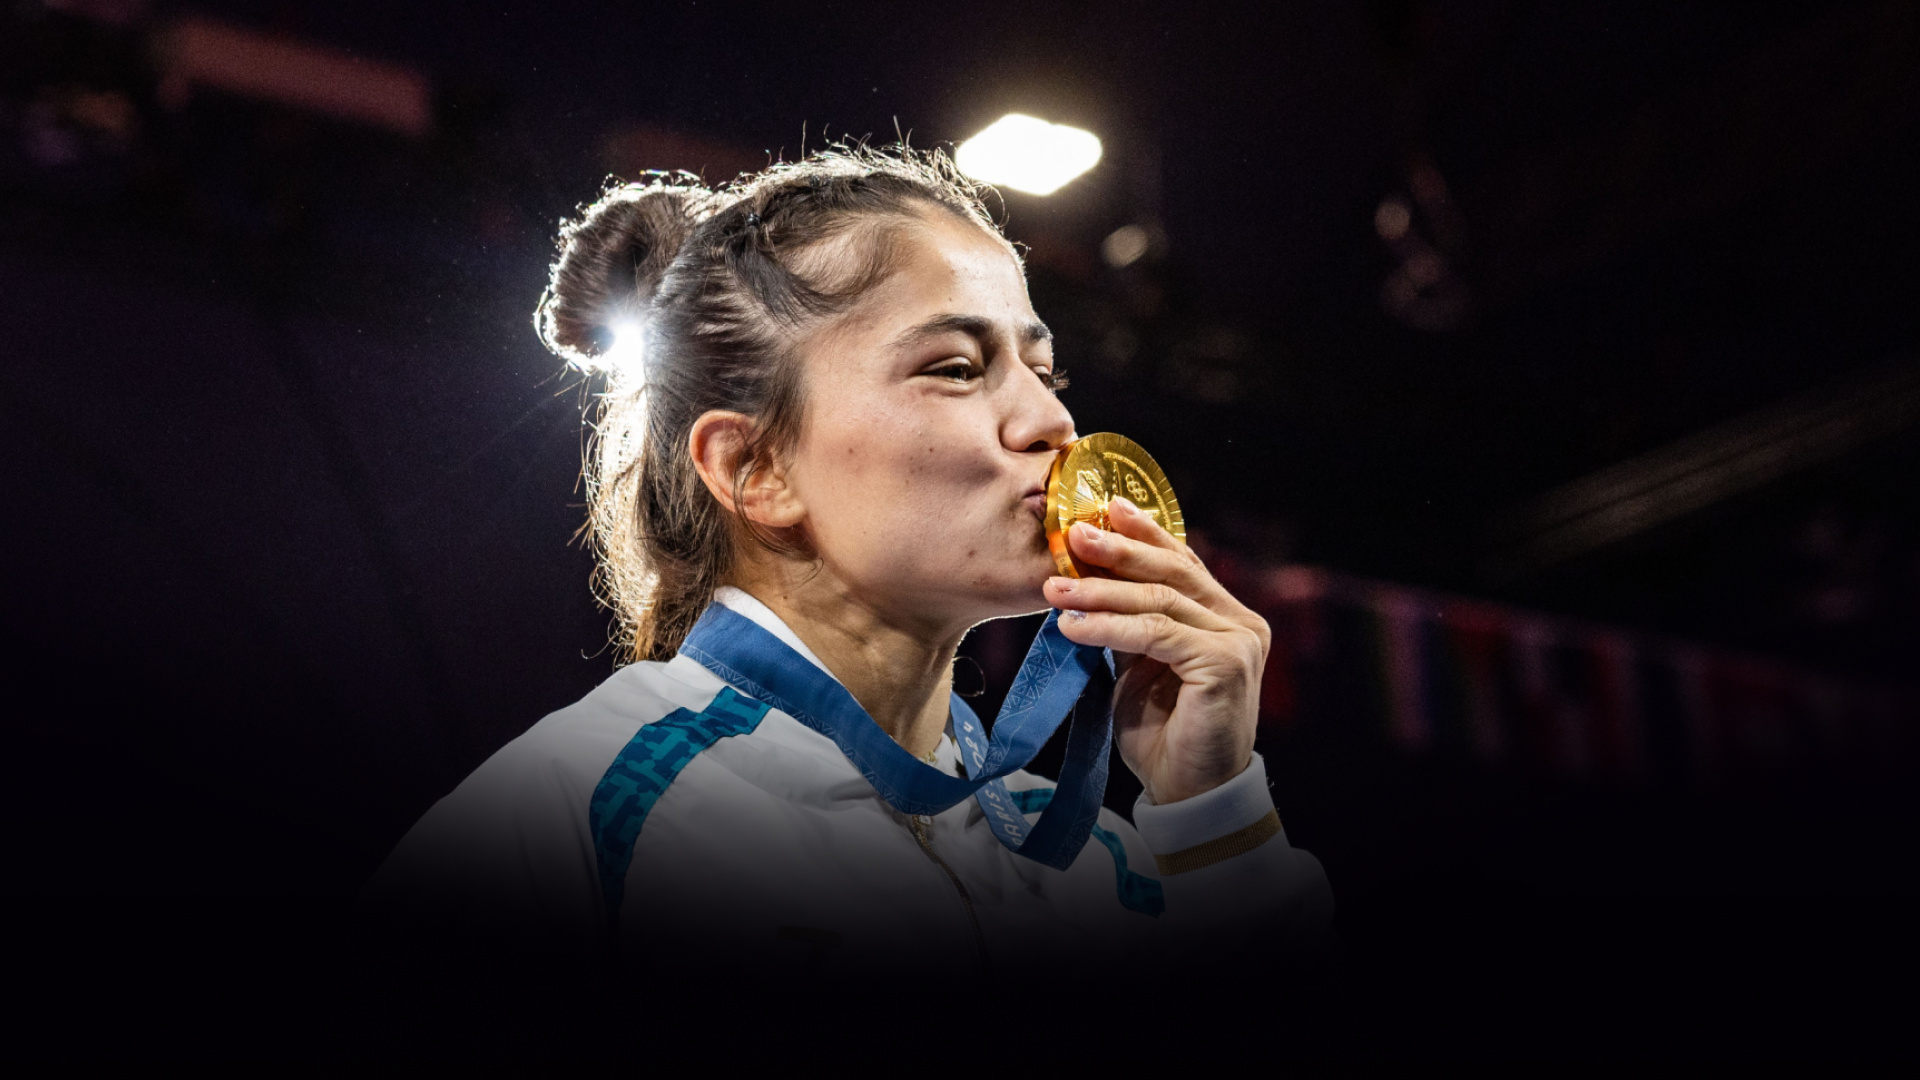
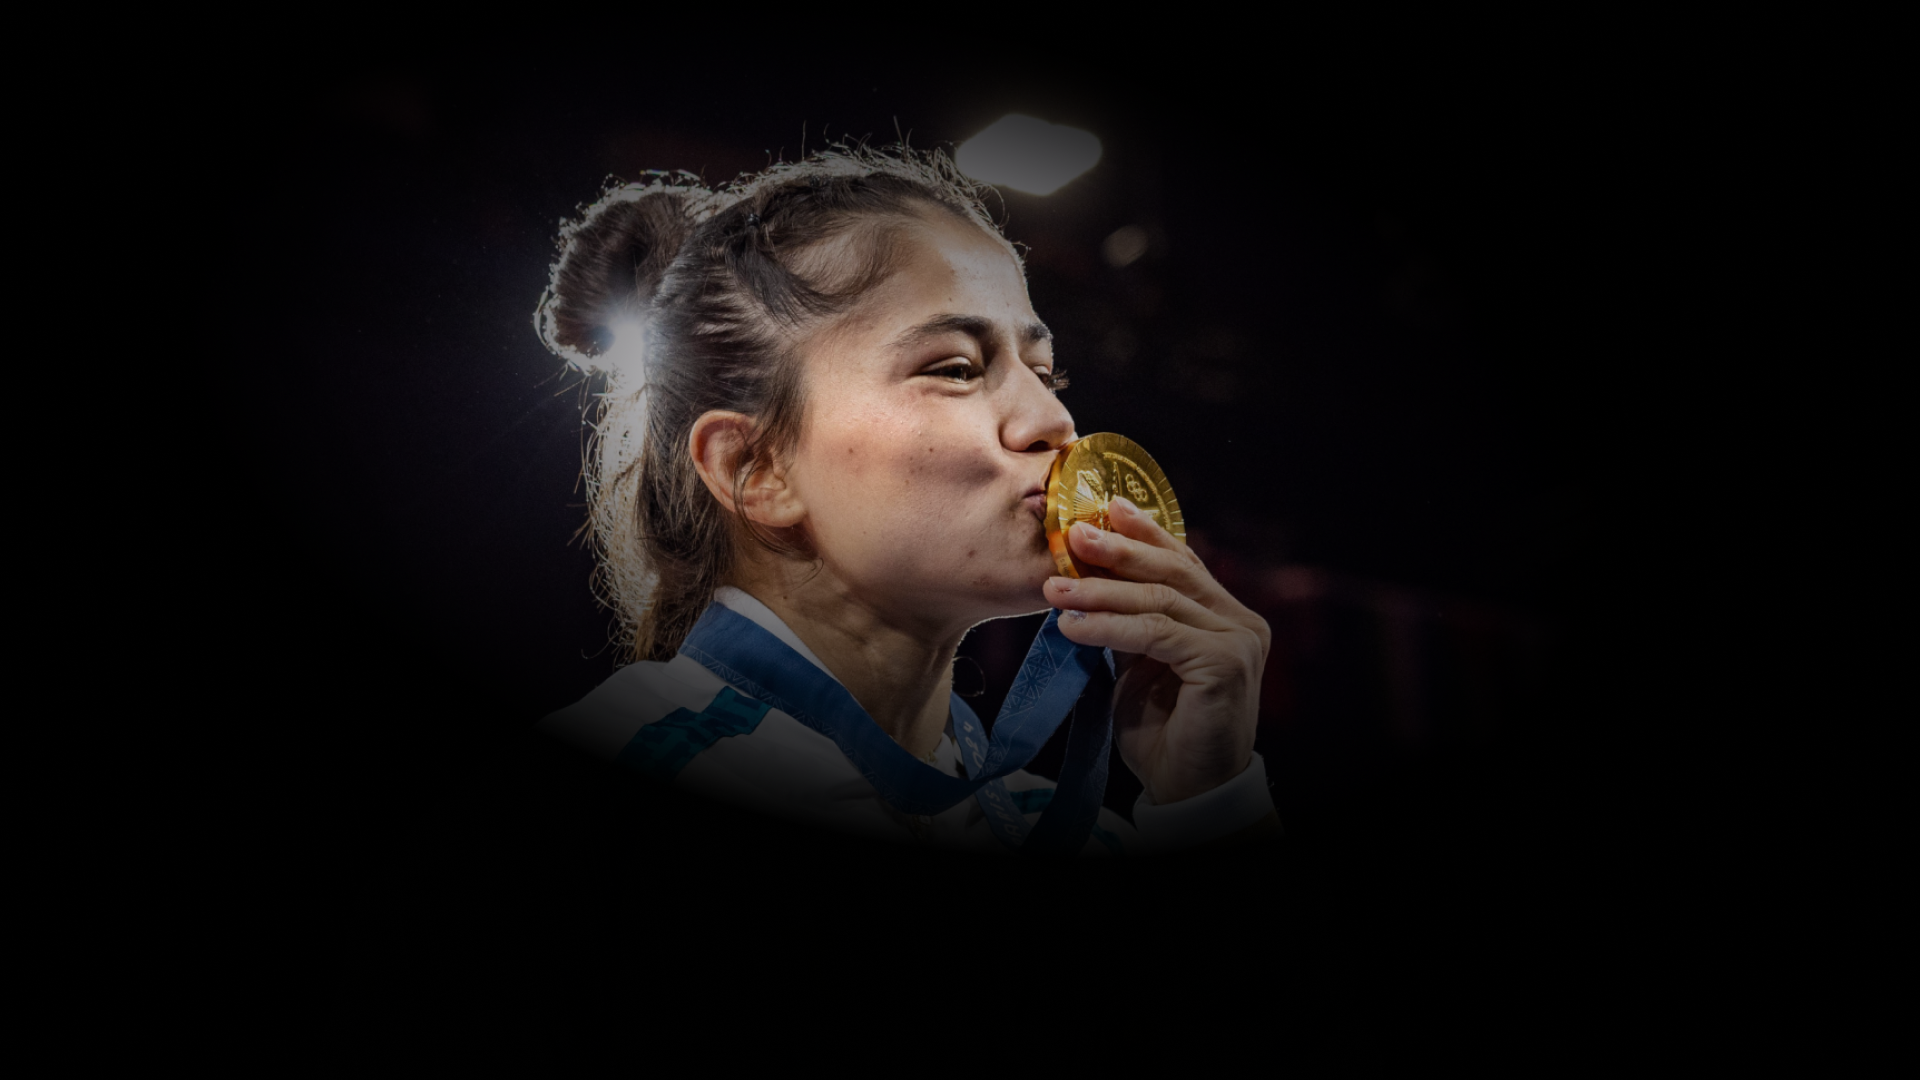
bg image and navbar

diff --git a/app/[lang]/components/navbar.jsx b/app/[lang]/components/navbar.jsx
@@ -54,50 +54,52 @@ const Navbar = ({ t }) => {
   return (
     <header
       ref={navbarRef}
-      className="bg-transparent h-[120px] max-w-[1600px] px-16 2xl:p-0 w-full mx-auto flex items-center justify-between"
+      className="bg-[#0000003D] backdrop-blur-xl left-0 right-0 fixed top-0 h-[120px]  w-full mx-auto flex"
     >
-      <Link href={`/${language}`}>
-        <Logo />
-      </Link>
-      <nav className="flex items-center gap-8">
-        <ul className="text-[#878787] text-xl font-normal lg:flex gap-[60px] hidden">
-          <li className="cursor-pointer">
-            <a href="#about-me" className="nav-link">
-              {t.nav.about_me}
-            </a>
-          </li>
-          <li className="cursor-pointer">
-            <a href="#results" className="nav-link">
-              {t.nav.results}
-            </a>
-          </li>
-          <li className="cursor-pointer">
-            <a href="#gallery" className="nav-link">
-              {t.nav.gallery}
-            </a>
-          </li>
-          <li className="cursor-pointer">
-            <a href="#connections" className="nav-link">
-              {t.nav.key_connections}
-            </a>
-          </li>
-        </ul>
-        <select
-          value={language}
-          onChange={handleLanguageChange}
-          className="text-[#878787] text-xl font-normal bg-transparent outline-none"
-        >
-          <option value="uz" className="bg-[#252525]">
-            Uz
-          </option>
-          <option className="bg-[#252525]" value="ru">
-            Ru
-          </option>
-          <option className="bg-[#252525]" value="en">
-            En
-          </option>
-        </select>
-      </nav>
+      <div className="max-w-[1600px] w-full mx-auto px-16 2xl:p-0 flex items-center justify-between">
+        <Link href={`/${language}`}>
+          <Logo />
+        </Link>
+        <nav className="flex items-center gap-8">
+          <ul className="text-[#878787] text-xl font-normal lg:flex gap-[60px] hidden">
+            <li className="cursor-pointer">
+              <a href="#about-me" className="nav-link">
+                {t.nav.about_me}
+              </a>
+            </li>
+            <li className="cursor-pointer">
+              <a href="#results" className="nav-link">
+                {t.nav.results}
+              </a>
+            </li>
+            <li className="cursor-pointer">
+              <a href="#gallery" className="nav-link">
+                {t.nav.gallery}
+              </a>
+            </li>
+            <li className="cursor-pointer">
+              <a href="#connections" className="nav-link">
+                {t.nav.key_connections}
+              </a>
+            </li>
+          </ul>
+          <select
+            value={language}
+            onChange={handleLanguageChange}
+            className="text-[#878787] text-xl font-normal bg-transparent outline-none"
+          >
+            <option value="uz" className="bg-[#252525]">
+              Uz
+            </option>
+            <option className="bg-[#252525]" value="ru">
+              Ru
+            </option>
+            <option className="bg-[#252525]" value="en">
+              En
+            </option>
+          </select>
+        </nav>
+      </div>
     </header>
   );
 };

diff --git a/app/[lang]/page.jsx b/app/[lang]/page.jsx
@@ -7,7 +7,7 @@ import Link from "next/link";
 import { getDictionary } from "./dictionaries";
 
 export default async function Home({ params: { lang } }) {
-  const t = await getDictionary(lang);
+  const t = await getDictionary(lang || "en");
   const leaders = [
     {
       imgSrc: "/img/president.jpg",
@@ -42,8 +42,9 @@ export default async function Home({ params: { lang } }) {
   ];
   return (
     <>
-      <section className="bg-[url('/img/bg.png')] bg-cover bg-center bg-no-repeat h-screen flex flex-col">
-        <Navbar t={t} />
+      <Navbar t={t} />
+
+      <section className="bg-[url('/img/bg.png')] bg-cover bg-top bg-no-repeat h-screen flex flex-col">
         <div className="px-2 mx-auto flex flex-col xl:flex-row gap-[24px]  xl:gap-[64px] items-center mt-auto mb-[96px]">
           <h1
             className="text-center xl:text-right text-[44px] leading-[48px] xl:text-[64px] xl:leading-[72px] 2xl:text-8xl font-bold 2xl:leading-[110px]"
